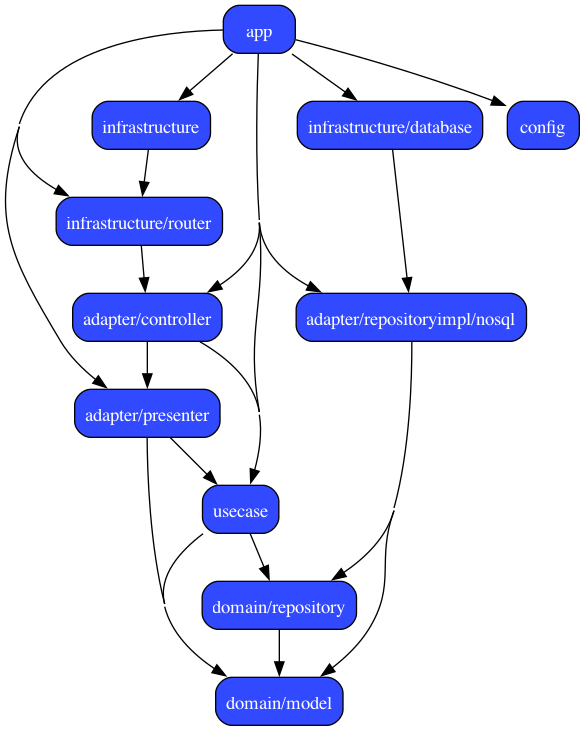
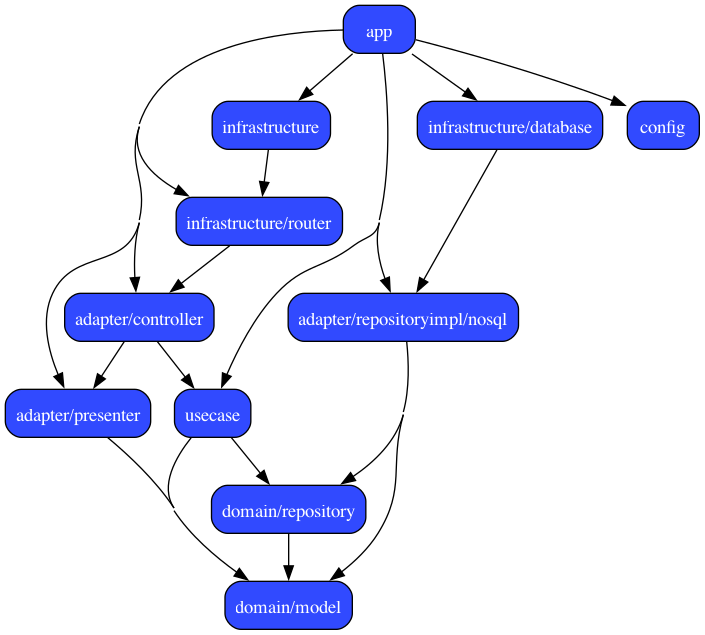
refactor: Outputをpresenterに移動してみる

diff --git a/sample/internal/adapter/presenter/find_shop_by_name.go b/sample/internal/adapter/presenter/find_shop_by_name.go
@@ -2,17 +2,21 @@ package presenter
 
 import (
 	"github.com/sin392/db-media-sample/sample/internal/domain/model"
-	"github.com/sin392/db-media-sample/sample/internal/usecase"
 )
 
-type FindShopByNamePresenter struct{}
+type (
+	FindShopByNamePresenter struct{}
+	FindShopByNameOutput    struct {
+		model.Shop
+	}
+)
 
 func NewFindShopByNamePresenter() FindShopByNamePresenter {
 	return FindShopByNamePresenter{}
 }
 
-func (p FindShopByNamePresenter) Output(shop *model.Shop) *usecase.FindShopByNameOutput {
-	return &usecase.FindShopByNameOutput{
+func (p FindShopByNamePresenter) Output(shop *model.Shop) *FindShopByNameOutput {
+	return &FindShopByNameOutput{
 		Shop: model.Shop{
 			ID:       shop.ID,
 			Name:     shop.Name,

diff --git a/sample/internal/usecase/find_shop_by_name.go b/sample/internal/usecase/find_shop_by_name.go
@@ -8,17 +8,14 @@ import (
 	"github.com/sin392/db-media-sample/sample/module/trace"
 )
 
-type FindShopByNameUsecase interface {
-	Execute(ctx context.Context, name string) (*model.Shop, error)
-}
-
-type FindShopByNameOutput struct {
-	model.Shop
-}
-
-type FindShopByNameInteractor struct {
-	repo repository.ShopRepository
-}
+type (
+	FindShopByNameUsecase interface {
+		Execute(ctx context.Context, name string) (*model.Shop, error)
+	}
+	FindShopByNameInteractor struct {
+		repo repository.ShopRepository
+	}
+)
 
 func NewFindShopByNameIntercepter(
 	repo repository.ShopRepository,

diff --git a/sample/internal/adapter/controller/find_shop_by_name.go b/sample/internal/adapter/controller/find_shop_by_name.go
@@ -21,7 +21,7 @@ func NewFindShopByNameController(uc usecase.FindShopByNameUsecase, presenter pre
 	}
 }
 
-func (c *FindShopByNameController) Execute(ctx context.Context, name string) (*usecase.FindShopByNameOutput, error) {
+func (c *FindShopByNameController) Execute(ctx context.Context, name string) (*presenter.FindShopByNameOutput, error) {
 	ctx, span := trace.StartSpan(ctx, "FindShopByNameController.Execute")
 	defer span.End()
 

diff --git a/README.md b/README.md
@@ -9,3 +9,4 @@
 - domain ... ドメインロジックに関するコード置き場
 
 ![sampleのアーキテクチャ図](sample/docs/graph/deps.png)
+注: wireでの依存関係がちょっとわかりづらいな
